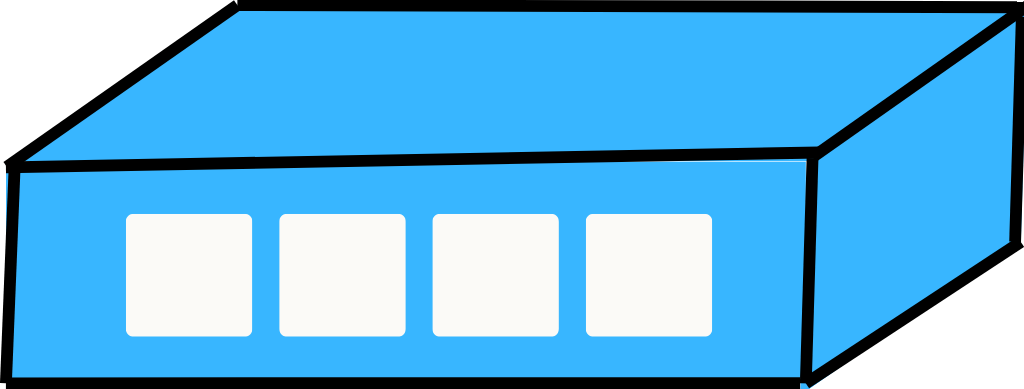
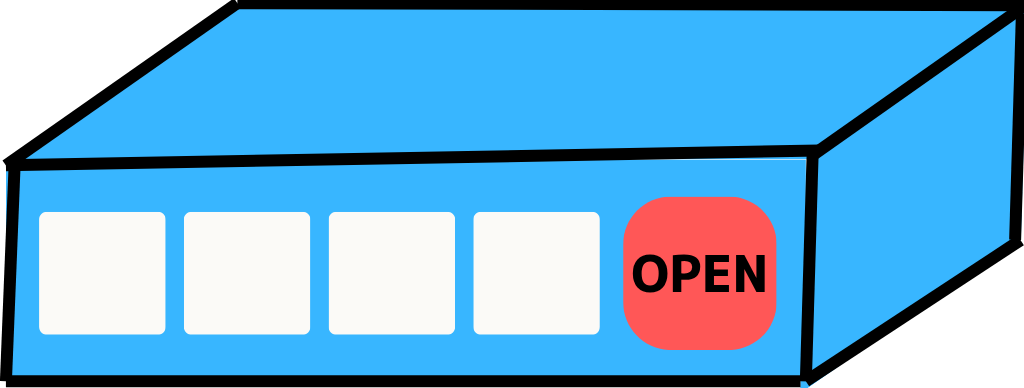
8 upd

diff --git a/escape8.html b/escape8.html
@@ -737,44 +737,34 @@
                 description: 'ガラスケースのふた部分だ',
                 clickableAreas: [
                     {
-                        x: 2.58, y: 10.97, width: 20, height: 14.8,
+                        x: 6.45, y: 28.5, width: 13.4, height: 13.4,
                         action: 'examine_counter_box_pass1',
                         description: '箱のふたパスワード',
                         zIndex:1, 
-                        item: {
-                            img: 'string1',   
-                            visible: () => true, 
-                        },
                     },
                     {
-                        x: 27.74, y: 10.97, width: 20, height: 14.8,
+                        x: 22.2, y: 28.8, width: 13.4, height: 13.4,
                         action: 'examine_counter_box_pass2',
                         description: '箱のふたパスワード',
                         zIndex:1, 
-                        item: {
-                            img: 'string1',   
-                            visible: () => true, 
-                        },
                     },
                     {
-                        x: 52.26, y: 11.29, width: 20, height: 14.8,
+                        x: 37.7, y: 28.6, width: 13.4, height: 13.4,
                         action: 'examine_counter_box_pass3',
                         description: '箱のふたパスワード',
                         zIndex:1, 
-                        item: {
-                            img: 'string1',   
-                            visible: () => true, 
-                        },
                     },
-                     {
-                        x: 76.45, y: 11.29, width: 20, height: 14.8,
+                    {
+                        x: 53.5, y: 28.8, width: 13.4, height: 13.4,
                         action: 'examine_counter_box_pass4',
                         description: '箱のふたパスワード',
                         zIndex:1, 
-                        item: {
-                            img: 'string1',   
-                            visible: () => true, 
-                        },
+                    },
+                    {
+                        x: 70.2, y: 27.4, width: 16.2, height: 15.7,
+                        action: 'examine_counter_box_open',
+                        description: '箱のふたボタン',
+                        zIndex:1, 
                     },
                     {
                         x: 90.6, y: 90.6, width: 9.4, height: 9.4,
@@ -1229,8 +1219,8 @@
             }
             if(gameState.currentRoom === 'counterCloseup'){
                 // 仮の座標例
-                const box_x = [0.125, 0.375, 0.625, 0.875];
-                const box_y = 0.20;
+                const box_x = [0.13, 0.29, 0.44, 0.60];
+                const box_y = 0.37;
                 for(let i=0;i<4;i++){
                     ctx.save();
                     ctx.font = "bold 68px Arial";
@@ -1435,6 +1425,27 @@
                     break;
                 case 'examine_counter_box_pass4':
                     updateCounterBoxPass(3);
+                    break;
+                case 'examine_counter_box_open': 
+                    // 正解判定
+                    if (gameState.counter.flags.boxPazzuleSolved) {
+                        updateMessage('ロックは解除されている');
+                    } else if (counterBoxPassState.every((v, i) => v === counterBoxPassAnswer[i])) {
+                        // ロック解除イベント
+                        showSparkleEffectAtPercent(50,50);
+                        updateMessage('ロックが解除された');
+                        showModal(
+                            'ロックが解除された',
+                            '',
+                            [{text: '閉じる', action: 'close'}]
+                        );
+                        showSparkleEffectAtPercent(30,40);
+                        gameState.counter.flags.boxPazzuleSolved = true;
+                        playSE('se-clear'); 
+                    } else {
+                        playSE('se-error');
+                        updateMessage('違うようだ');
+                    }
                     break;
                 case 'examine_counter_back':
                     changeRoom('counter');
@@ -1778,22 +1789,6 @@
             const n = counterBoxPassTexts[idx].length;
             counterBoxPassState[idx] = (counterBoxPassState[idx] + 1) % n;
             renderCanvasRoom();
-            
-            // 正解判定
-            if (counterBoxPassState.every((v, i) => v === counterBoxPassAnswer[i])) {
-                // ロック解除イベント
-                showSparkleEffectAtPercent(50,50);
-                updateMessage('ロックが解除された');
-                showModal(
-                    'ロックが解除された',
-                    '',
-                    [{text: '閉じる', action: 'close'}]
-                );
-                showSparkleEffectAtPercent(30,40);
-                gameState.counter.flags.boxPazzuleSolved = true;
-                playSE('se-clear');
-                
-            }
         }
 
         // アイテム管理
